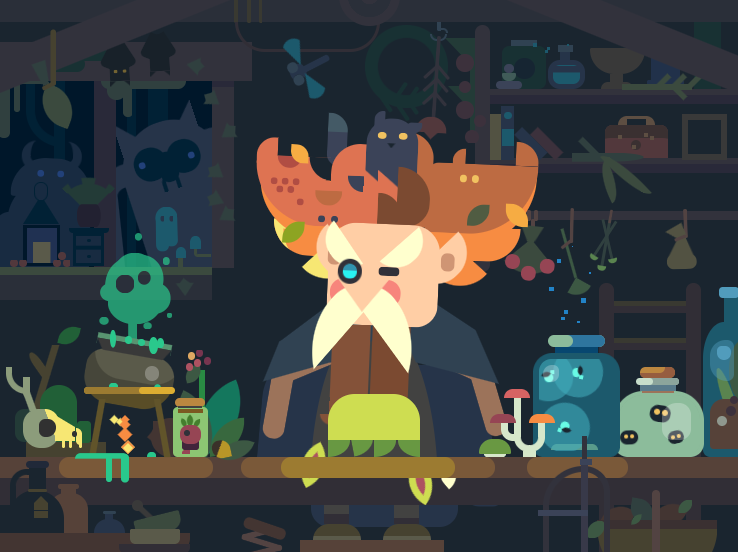
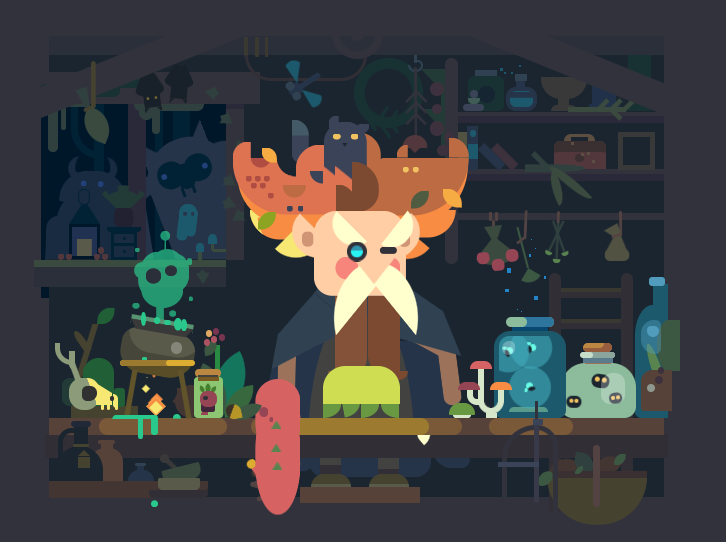
update

diff --git a/style.css b/style.css
@@ -1,3 +1,7 @@
+body {
+    background: #32323c;
+}
+
 .page {
     min-width: 100vw;
     min-height: 100vh;
@@ -10,7 +14,8 @@
     position: absolute;
     width: 800px;
     height: 600px;
-    overflow: hidden;
+    /* overflow: hidden; */
+    margin: 50px 0px 0px 100px;
 }
 
 .picture *,
